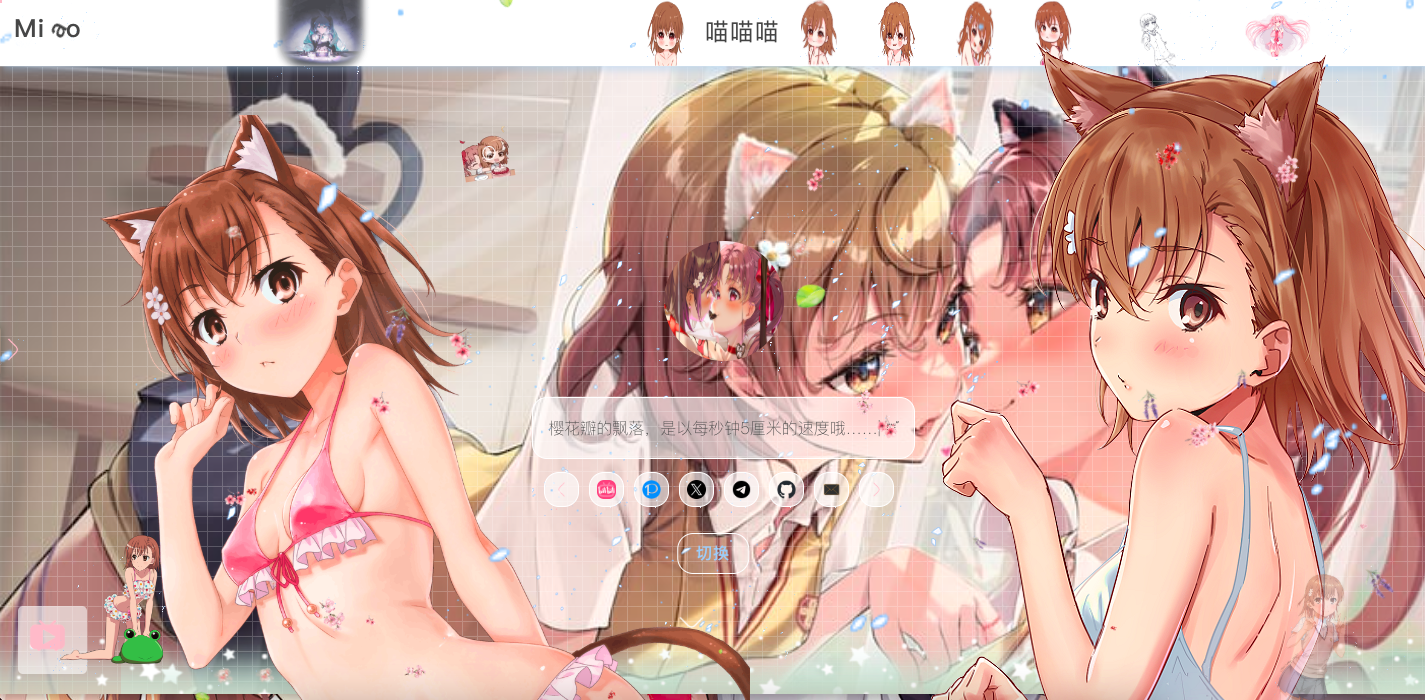
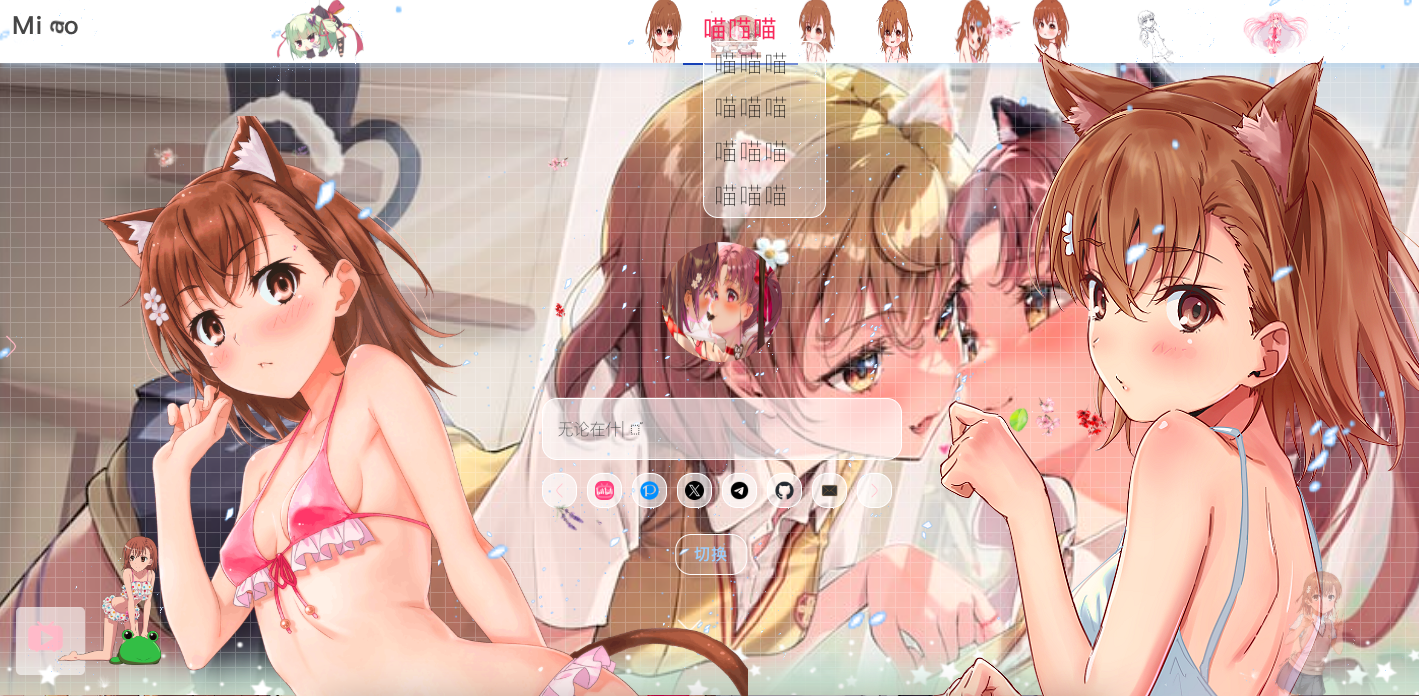
丛雨挂件

diff --git a/index.html b/index.html
@@ -788,7 +788,7 @@
 
     .top-container {
         position: fixed;
-        top: 0;
+        top: -18px;
         left: 39vh;
         right: 0;
         overflow: hidden;
@@ -821,7 +821,7 @@
     .close-btn {
         position: fixed;
         left: 39vh;
-        width: 123px;
+        width: 100px;
         height: 66px;
         background: transparent;
         border: 1px solid transparent;

diff --git a/css/Sakura.css b/css/Sakura.css
@@ -13,7 +13,6 @@ a {
     cursor: url(../curso/miku1.cur), auto;
 }
 
-a:active,
 a:hover {
     cursor: url(../curso/text.cur), alias;
 }
